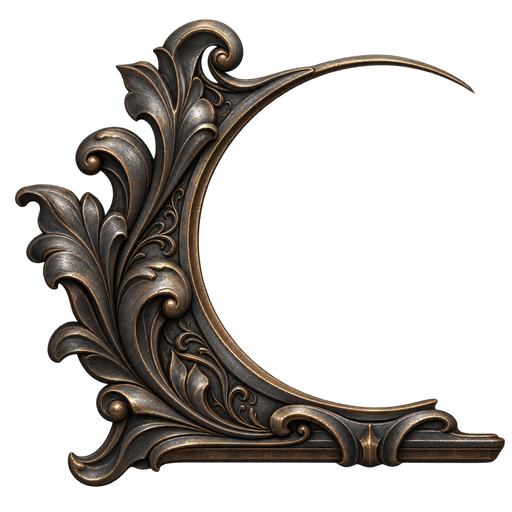
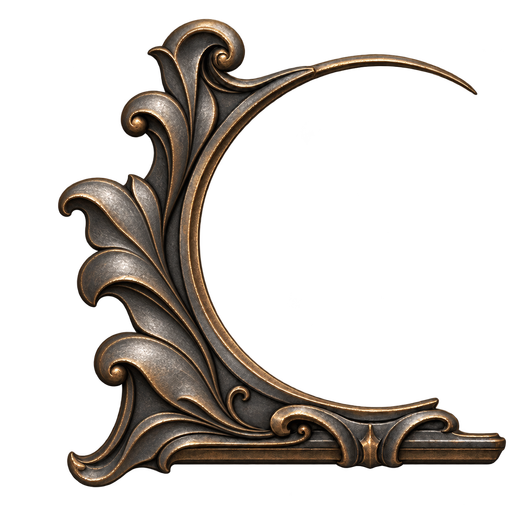
[Codex] fix: 簡化戰鬥HUD外側卷葉雕飾

Changed region(s): [[0.0312, 0.0312, 1.0, 0.9688]]

diff --git a/codex-authored/battle-hud/SOURCE.md b/codex-authored/battle-hud/SOURCE.md
@@ -6,3 +6,5 @@
 - originals/orb-carving.png 保留完整透明母圖；exports/orb-carving.png 為標準512px縮小版，保留原構圖與alpha。exports.json核對母圖及匯出SHA256。
 - 遊戲透過tools/battle-hud/export-source.cjs的--make-export／--apply／--check匯出到images/ui/battle-hud/orb-carving.png；CSS鏡像重用於法力球，沒有第二份貼圖。
 - 最終生成提示詞見PROMPT.txt；用途為全螢幕HUD兩側浮雕，非VFX Preset。
+- 2026-10-16修訂：使用者要求細部複雜度與紋理減約20%，並套用一般戰鬥區。內建image_gen以原母圖編修，保持大輪廓／圓孔／主要卷葉，減少細小卷紋與粗糙度；20%為美術調整目標，非可精確量化的像素減量。編修提示詞見PROMPT-refine.txt，初版母圖及初版提示詞保留在素材庫Git歷史11b766c及PROMPT.txt。
+- 使用者進一步圈選外側卷葉，要求邊緣不要複雜；最終母圖依PROMPT-edge.txt收為少量寬葉與兩個主要外側卷紋，保留內弧／圓孔／底腳位置。PROMPT-refine.txt為前一輪編修提示詞；最後使用版本以PROMPT-edge.txt及exports.json為準。
